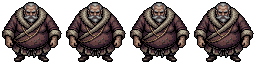
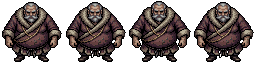
v18.1: durağan NPC'lere nefes animasyonu (Karga, Obruk, Çakal, Tuhn)
14 NPC'nin 11'inde D_Idle sheet'inin 4 karesi birbirinin aynısıydı; motor
zaten idle'ı döndürüyordu, eksik olan sanattı.

- Şablon (breathing-idle) Karga'nın elindeki mızrağı düşürdü; v3 modu +
  keep_first_frame aynı fiyata nesneyi her karede elde tutuyor.
- Kareler kendi bbox'ına göre ortalanmıyor: yalnız 0. kare oturtuluyor,
  kalanı aynı ötelemeyle basılıyor, yoksa gövde yatayda titriyor.
- Döngü 0,1,2,1: v3'ün 3-4. kareleri nefes değil sapma.
- Ton aktor_uyum ile ham yedekten yeniden üretildi, üst üste binmedi.

diff --git a/lib/game/data.ts b/lib/game/data.ts
@@ -1,6 +1,6 @@
 /** Oyun surumu. Her yayina cikan degisiklikte 0.1 artar: 0.1, 0.2 ... 0.9,
  *  sonra 1.0, 1.1 diye devam eder. Ekranin sol altinda gorunur. */
-export const SURUM='18.0';
+export const SURUM='18.1';
 /** Gelisim asamasi. Oyun oynanabilir ama icerik ve sistemler (item seti, dil
  *  secenegi, masaustu arayuzu) hala eksik - yani alfa. Beta'ya gecisi bu sabit
  *  tasir; surum numarasiyla ayri tutuldu ki 1.x sayimi bozulmasin. */

diff --git a/scripts/npc_idle.py b/scripts/npc_idle.py
@@ -1,0 +1,113 @@
+"""Durağan NPC'ye nefes alan idle animasyonu uretir ve kurar.
+
+Neden sablon degil v3: `/characters/animations` mode=template (`breathing-idle`)
+karakterin ELINDEKI nesneyi dusuruyor - Karga'nin mizragi ilk denemede kayboldu
+(bkz. v3_anim.py basindaki ayni ders). mode=v3 + keep_first_frame karakterin
+donus karesinden basladigi icin nesne her karede elde kaliyor. Fiyat ayni:
+1 uretim/yon, NPC'ler yalniz guney cizildigi icin 1.
+
+kullanim:
+    python3 scripts/npc_idle.py uret <ad>          # <ad>: id_<ad>.txt
+    python3 scripts/npc_idle.py kur  <ad> <slot>
+"""
+import base64, glob, io, os, sys, time
+sys.path.insert(0, os.path.dirname(os.path.abspath(__file__)))
+import aktor_uyum
+import pxl
+from PIL import Image
+
+ROOT = os.path.dirname(os.path.dirname(os.path.abspath(__file__)))
+HAM = f'{ROOT}/_arsiv/uretim/asset_backup_ton_oncesi'
+CELL, FEET = 64, 62
+# 3-4. kareler nefes degil SAPMA (0. kareye uzaklik indisle tekduze buyuyor:
+# obruk2'de 324/1295/1415/1936 piksel; ceket aciliyor, govde inceliyor).
+# 0,1,2,1 hem nefes alip verme hem de sapma karelerine hic girmiyor.
+SIRA = [0, 1, 2, 1]
+
+# Ortak sart: v3 uretken, "dur" demezsen NPC yuruyor ya da doneriyor.
+DUR = ('; the feet never move, the body never turns and never walks, the '
+       'character stays in exactly the same spot and pose')
+NEFES = ('stands still and breathes quietly, the chest and shoulders rising and '
+         'falling slightly and the head barely moving')
+# Elde ne varsa ADIYLA yazilmali; "whatever is held" yeterli olmadigi yerde
+# nesnenin maddesi de yazilir (kilic tarifleri gibi).
+TARIF = {
+    'karga': (NEFES + '; the tall spear stays planted upright on the ground in the '
+              'hand and the second spear stays strapped to the back in every single '
+              'frame' + DUR),
+    'cakal': (NEFES + '; the axe stays gripped in the hand down at the side in every '
+              'single frame' + DUR),
+    'kederli': (NEFES + '; whatever is held in the hands stays exactly where it is in '
+                'every single frame' + DUR),
+    'obruk2': (NEFES.replace('the chest and shoulders', 'the heavy chest and belly') +
+               ', the arms hanging relaxed at the sides' + DUR),
+}
+
+
+def bekle(joblar, etiket):
+    for i in range(240):
+        d = [pxl.call(f'/background-jobs/{j}') for j in joblar]
+        st = [x.get('status') for x in d]
+        if i % 6 == 0:
+            print(f'  {i*5:3d}sn {etiket} {st}', flush=True)
+        if all(s in ('completed', 'succeeded', 'done', 'failed', 'error') for s in st):
+            return d
+        time.sleep(5)
+    return d
+
+
+def uret(ad):
+    cid = open(f'{ROOT}/_arsiv/uretim/pixellab/id_{ad}.txt').read().strip()
+    ham = f'{ROOT}/_arsiv/uretim/pixellab/v3/npc_{ad}'
+    os.makedirs(ham, exist_ok=True)
+    once = pxl.balance()[0]
+    r = pxl.call('/characters/animations', {
+        'character_id': cid, 'mode': 'v3', 'animation_name': f'npc-{ad}-Idle',
+        'action_description': TARIF[ad], 'directions': ['south'],
+        'frame_count': 4, 'keep_first_frame': True, 'seed': 21})
+    for d in bekle([j for j in (r.get('background_job_ids') or []) if j], f'{ad}/Idle'):
+        son = d.get('last_response') or {}
+        if d.get('status') != 'completed':
+            print(f'  !! {ad} basarisiz: {d.get("status")}')
+            continue
+        for i, g in enumerate(son.get('images') or []):
+            Image.open(io.BytesIO(base64.b64decode(g['base64'].split(',')[-1]))) \
+                 .convert('RGBA').save(f'{ham}/Idle_south_{i:02d}.png')
+        print(f'  {ad}: {len(son.get("images") or [])} kare -> {ham}')
+    time.sleep(3)
+    print(f'{ad} bitti. maliyet={once-pxl.balance()[0]:.0f} uretim')
+
+
+def kur(ad, slot):
+    """Kareleri KENDI bbox'ina gore ortalamak yanlis: kol ya da nesne kipirdayinca
+    govde yatayda kayiyor ve nefes yerine titreme okunuyor. Yalniz 0. kare
+    otur() kuraliyla yerlesir, kalani AYNI otelemeyle basilir."""
+    kare = [Image.open(p).convert('RGBA') for p in
+            sorted(glob.glob(f'{ROOT}/_arsiv/uretim/pixellab/v3/npc_{ad}/Idle_south_*.png'))]
+    bb = kare[0].getbbox()
+    dx, dy = CELL // 2 - (bb[2] - bb[0]) // 2 - bb[0], FEET - bb[3]
+    sh = Image.new('RGBA', (CELL * len(SIRA), CELL), (0, 0, 0, 0))
+    for i, k in enumerate(SIRA):
+        hucre = Image.new('RGBA', (CELL, CELL), (0, 0, 0, 0))
+        hucre.paste(kare[k], (dx, dy), kare[k])
+        sh.paste(hucre, (i * CELL, 0))
+    hedef, yedek = f'{ROOT}/public/assets/characters/{slot}', f'{HAM}/characters/{slot}'
+    eski = Image.open(f'{hedef}/D_Idle.png').crop((0, 0, CELL, CELL)).getbbox()
+    yeni = sh.crop((0, 0, CELL, CELL)).getbbox()
+    if eski != yeni:
+        # Uyusmazlik genelde YANLIS KARAKTER demek: id_obruk / id_obruk2 gibi iki
+        # surum duruyorsa kurulu olan hangisiyse ondan uretilmeli.
+        print(f'  !! {ad}: bbox tutmadi {eski} -> {yeni}; yanlis karakterden mi uretildi?')
+    assert os.path.isdir(yedek), yedek
+    sh.save(f'{yedek}/D_Idle.png')     # ham kaynak yenilenir
+    aktor_uyum.klasor(hedef)           # derece DAIMA ham yedekten uretilir
+    print(f'  {ad} -> characters/{slot}  {len(SIRA)} kare  ofset=({dx},{dy})')
+
+
+if __name__ == '__main__':
+    if sys.argv[1] == 'uret':
+        for a in sys.argv[2:]:
+            uret(a)
+        print('kalan bakiye:', pxl.balance())
+    else:
+        kur(sys.argv[2], sys.argv[3])

diff --git a/.claude/skills/kul-ve-yemin-esaslar/SKILL.md b/.claude/skills/kul-ve-yemin-esaslar/SKILL.md
@@ -2692,6 +2692,50 @@ tempolarını %50 hızlandırırdı ve iki yürüyüş yan yana görününce sı
 **Ders:** "göremiyorum" şikayetinde önce çizilip çizilmediğini ölç. Çiziliyorsa
 sorun sıklıkta değil, animasyonun İÇİNDE olabilir - kareyi kare ölçmek gerekir.
 
+### v18.1: Durağan NPC'lere nefes animasyonu — şablon değil v3
+
+Kullanıcı "obruk, çakal, karga ve tuhn'da idle yok" dedi. Ölçüldü: 14 NPC'nin
+**11'inin** `D_Idle.png` dosyasındaki 4 kare birbirinin aynısıydı (kare farkı
+0 piksel). Yalnız Mirna (3), Undur (4) ve Kral (13) animasyonluydu. Motor
+tarafında sorun yok - NPC zaten `Math.floor(time*5)` ile dönüyor (engine:1766);
+eksik olan **sanat**tı.
+
+**Şablon tuzağı tekrar doğrulandı.** Önce `npc_uret.py`'deki yol denendi:
+`mode:'template'`, `breathing-idle`. Karga'nın elindeki **mızrak kayboldu**
+(sırttaki kaldı, eldeki gitti) - `v3_anim.py`'nin başındaki not tam olarak bunu
+anlatıyor. Bu 1 üretim boşa gitti.
+
+**Doğru yol, aynı fiyata:** `mode:'v3'` + `keep_first_frame:True`. v3
+karakterin dönüş karesinden başladığı için 0. kare birebir kurulu sprite'ın
+kendisi, nesne de her karede elde kalıyor. Dört NPC'de de mızrak/balta/şişe
+korundu.
+
+**İki ders daha çıktı:**
+
+1. **Kareleri kendi bbox'ına göre ortalama.** `otur()`/`fit()` her kareyi kendi
+   bbox'ına göre ortalıyor; kol ya da nesne kıpırdayınca gövde yatayda kayıyor
+   ve nefes yerine *titreme* okunuyor. Doğrusu: yalnız 0. kare `otur()`
+   kuralıyla yerleştirilir, kalan kareler **aynı ötelemeyle** basılır. Ölçüldü:
+   dört NPC'de de 0. karenin bbox'ı eskisiyle birebir aynı, yani kimse
+   yerinden oynamadı.
+2. **v3'ün son kareleri nefes değil sapma.** 0. kareye uzaklık indisle tekdüze
+   büyüyor (obruk2: 324 / 1295 / 1415 / 1936 piksel); 3-4. karelerde ceket
+   açılıyor, göbek eriyordu. Döngü `0,1,2,1` sırasıyla kuruldu - hem nefes alıp
+   verme oluyor hem sapma karelerine hiç girilmiyor.
+
+**Slot tuzağı:** `id_obruk.txt` ile `id_obruk2.txt` ikisi de duruyor, kurulu
+olan **obruk2**. Yanlışından üretildi, 1 üretim daha gitti. Kurulumdan önce
+üretilen karenin bbox'ını kurulu sprite'ınkiyle karşılaştır: karga/çakal/tuhn
+birebir tuttu, obruk 48x60'a karşı 60x60 çıktı - uyuşmazlık yanlış karakter
+demek.
+
+Toplam 6 üretim (1 şablon + 4 v3 + 1 obruk2). Ton `aktor_uyum.klasor()` ile
+ham yedekten yeniden üretildi; `git status` yalnız dört `D_Idle.png` gösterdi,
+yani derece üst üste binmedi.
+
+**Kalan:** Alf (2), Rauf (5), Lin (7), Tiga (8), Elvi (9), Uslu (14), Son
+Muhafız (15) hâlâ donuk; her biri 1 üretim.
+
 ---
 
-*Son güncelleme: 2026-09-17, v18.0. Karıştırıyorsa kısalt ya da sil; kullanıcı böyle istedi.*
+*Son güncelleme: 2026-09-17, v18.1. Karıştırıyorsa kısalt ya da sil; kullanıcı böyle istedi.*
